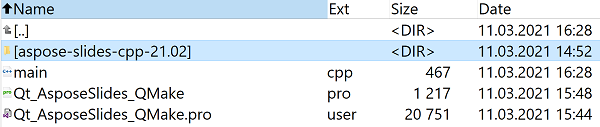
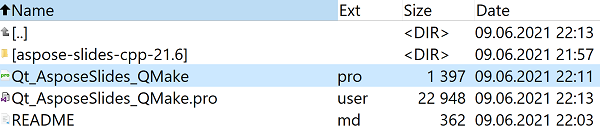
Actualized the "Work with PowerPoint Documents in Qt" article.

diff --git a/cpp/getting-started/work-with-powerpoint-documents-in-qt/_index.md b/cpp/getting-started/work-with-powerpoint-documents-in-qt/_index.md
@@ -24,7 +24,7 @@ In order to integrate and use Aspose.Slides for C++ library within a Qt Console 
 ![qt_console_application_qmake](Qt-Console-Application-QMake.png)
 
 - Select the appropriate kit and finish the wizard.
-- Copy aspose-slides-cpp-21.02 folder from the extracted package of Aspose.Slides for C++ into the root of the project.
+- Copy aspose-slides-cpp-21.6 folder from the extracted package of Aspose.Slides for C++ into the root of the project.
 
 ![lib_files](Aspose.Slides-Lib-Files.png)
 
